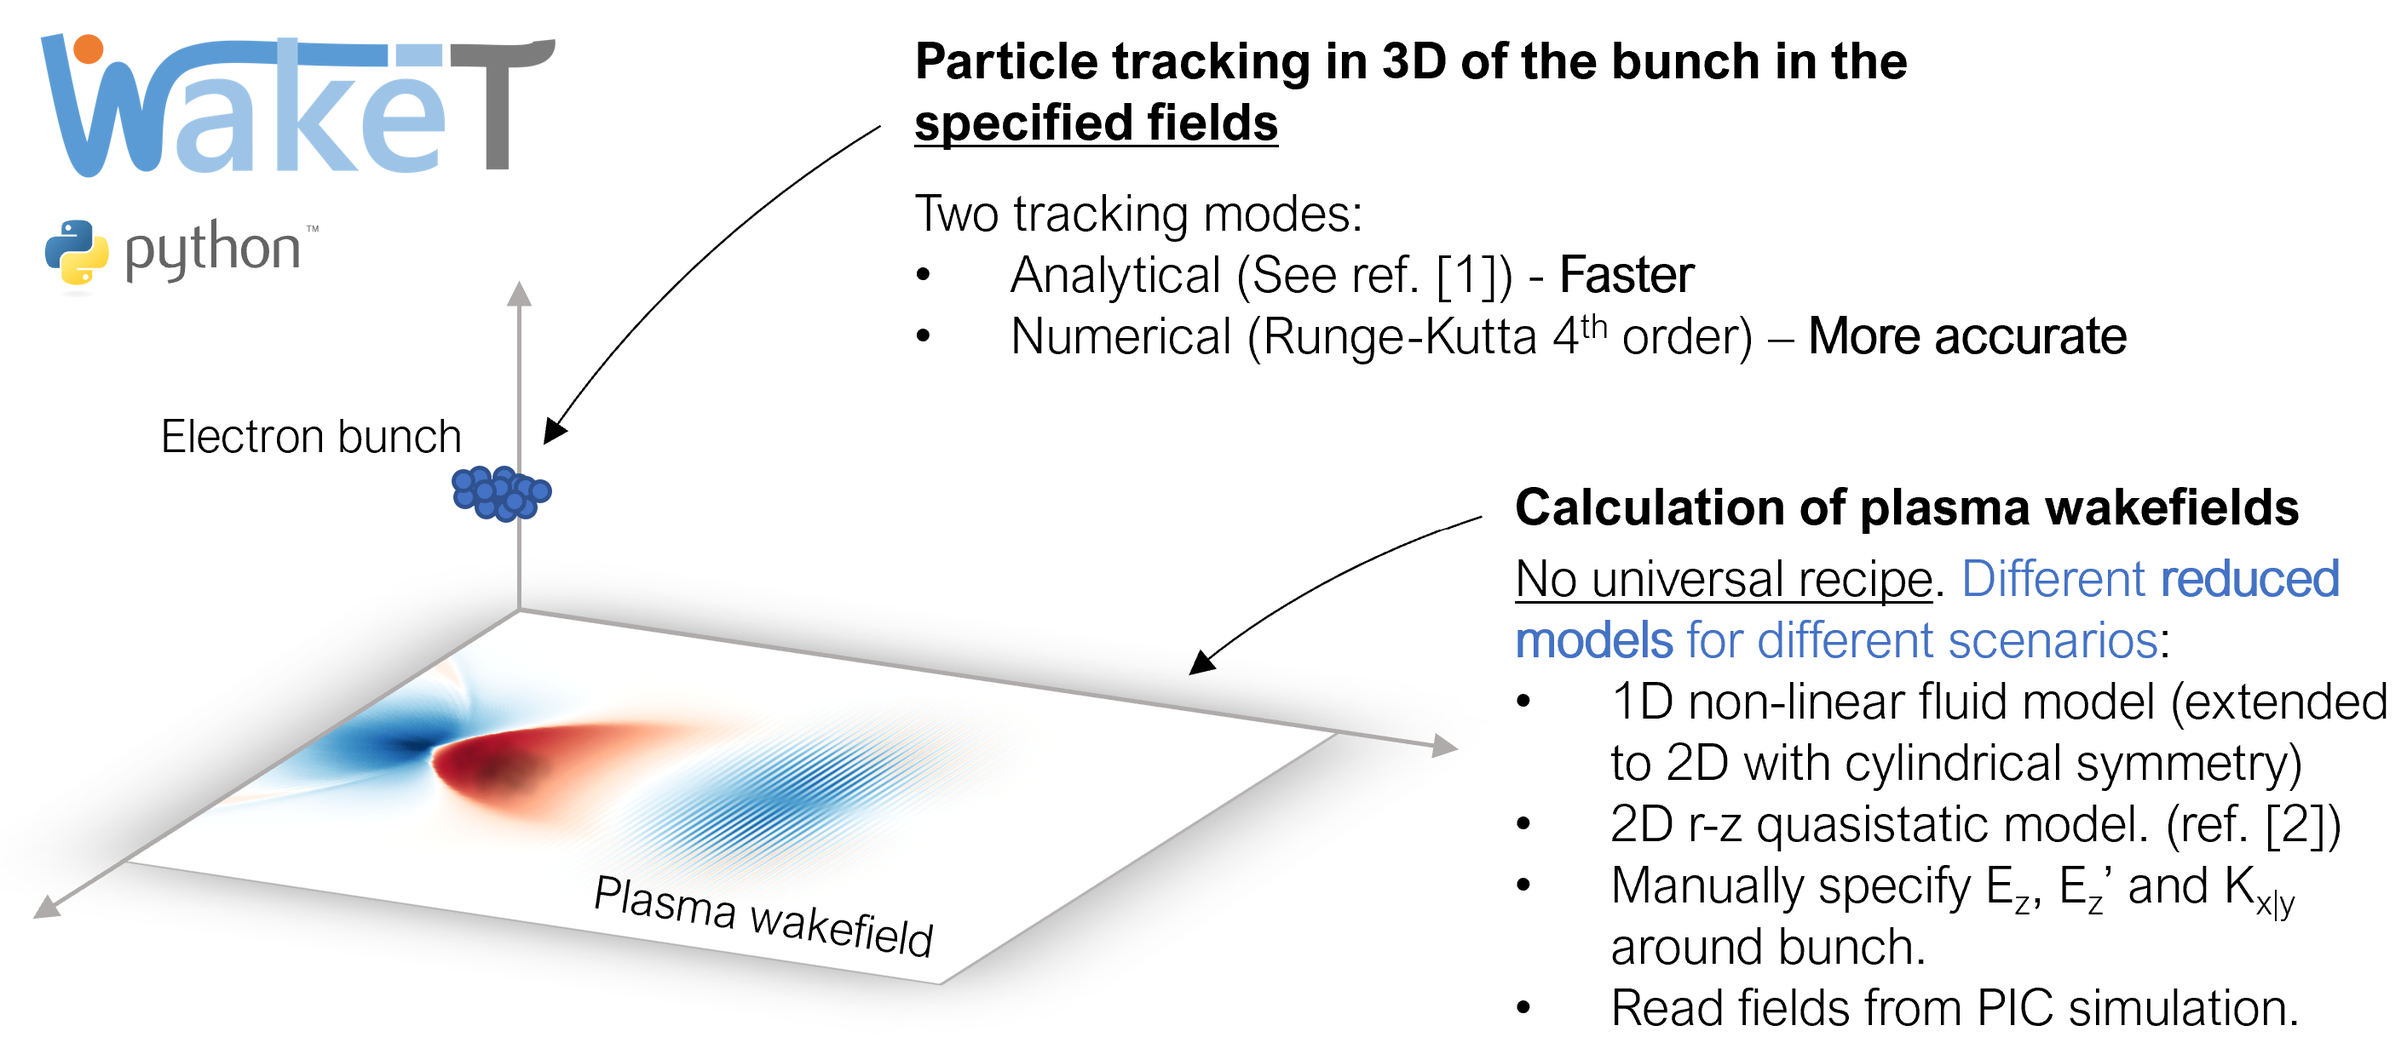
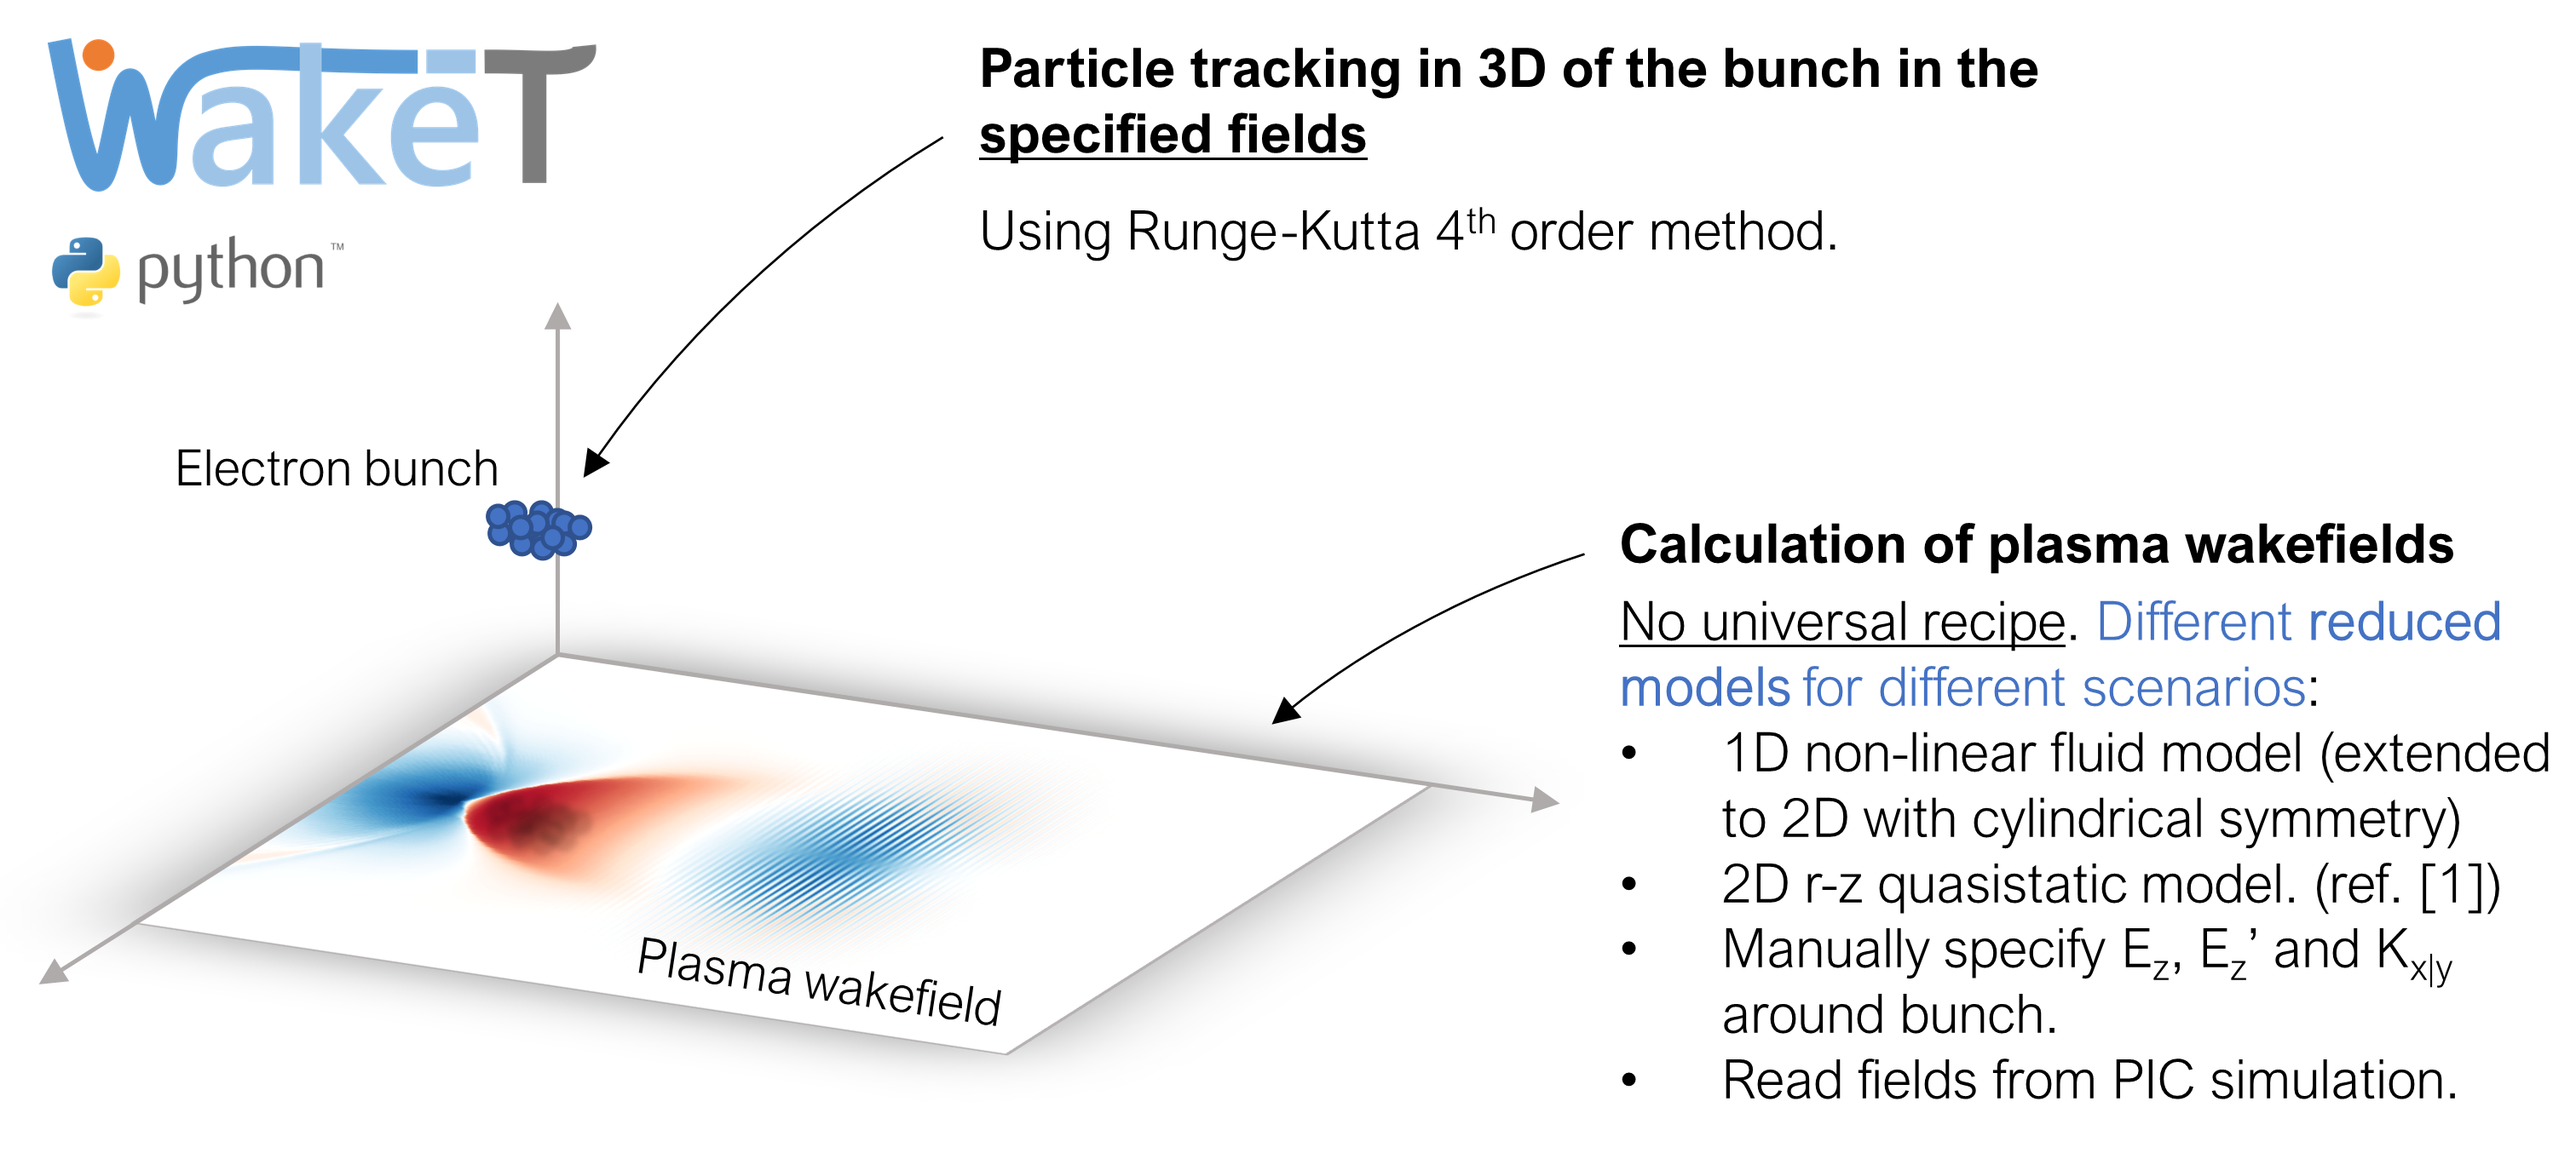
Update readme and picture

diff --git a/README.md b/README.md
@@ -9,7 +9,7 @@
 </p>
 
 ## Overview
- `Wake-T` (**Wake**field particle **T**racker) is a tracking code for plasma wakefield accelerators which aims at providing a fast alternative to Particle-in-Cell (PIC) simulations. Instead of relying on the computationally-expensive PIC algorithm for simulating the plasma wakefields and the beam evolution, `Wake-T` uses an analytical or numerical (Runge-Kutta) solver to track the evolution of the beam electrons in the wakefields, which, at the same time, are computed from reduced models. This allows for a significant speed-up of the simulations, which can be performed in a matter of seconds instead or hours/days. An overview of this strategy can be seen in the following figure:
+ `Wake-T` (**Wake**field particle **T**racker) is a tracking code for plasma wakefield accelerators which aims at providing a fast alternative to Particle-in-Cell (PIC) simulations. Instead of relying on the computationally-expensive PIC algorithm for simulating the plasma wakefields and the beam evolution, `Wake-T` uses a Runge-Kutta solver to track the evolution of the beam electrons in the wakefields, which, at the same time, are computed from reduced models. This allows for a significant speed-up of the simulations, which can be performed in a matter of seconds instead or hours/days. An overview of this strategy can be seen in the following figure:
 <p align="center">
   <img alt="Wake-T logo" src="other/plasma_tracking.png" width="600px" />
 </p>
@@ -44,8 +44,6 @@ python setup.py install
 
 ## References
 
-[1] - A. Ferran Pousa et al., *Intrinsic energy spread and bunch length growth in plasma-based accelerators due to betatron motion*, [Sci. Rep. **9**, 17690 ](https://doi.org/10.1038/s41598-019-53887-8) (2019).
+[1] - P. Baxevanis and G. Stupakov, *Novel fast simulation technique for axisymmetric plasma wakefield acceleration configurations in the blowout regime*, [Phys. Rev. Accel. Beams **21**, 071301](https://journals.aps.org/prab/abstract/10.1103/PhysRevAccelBeams.21.071301) (2018).
 
-[2] - P. Baxevanis and G. Stupakov, *Novel fast simulation technique for axisymmetric plasma wakefield acceleration configurations in the blowout regime*, [Phys. Rev. Accel. Beams **21**, 071301](https://journals.aps.org/prab/abstract/10.1103/PhysRevAccelBeams.21.071301) (2018).
-
-[3] - A. Ferran Pousa et al., *Wake-T: a fast particle tracking code for plasma-based accelerators*, [J. Phys.: Conf. Ser. **1350** 012056](https://iopscience.iop.org/article/10.1088/1742-6596/1350/1/012056) (2019).
+[2] - A. Ferran Pousa et al., *Wake-T: a fast particle tracking code for plasma-based accelerators*, [J. Phys.: Conf. Ser. **1350** 012056](https://iopscience.iop.org/article/10.1088/1742-6596/1350/1/012056) (2019).
